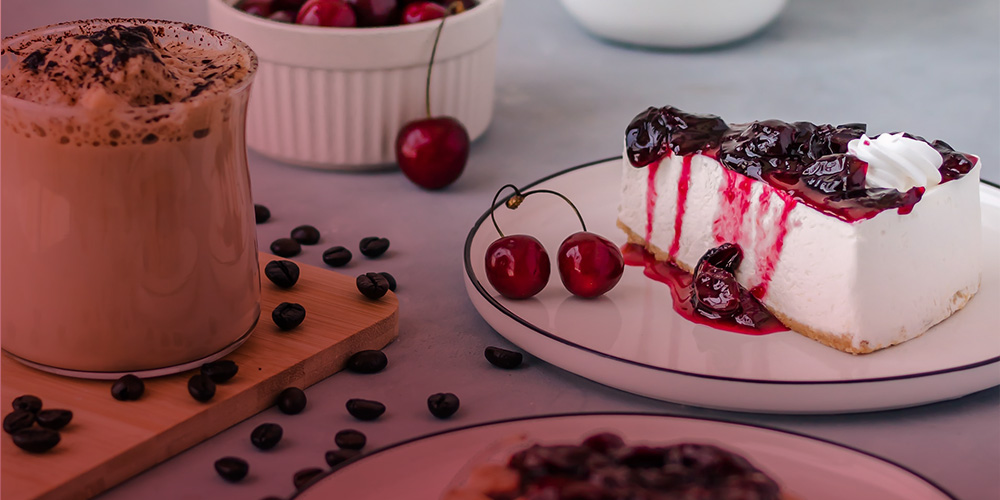
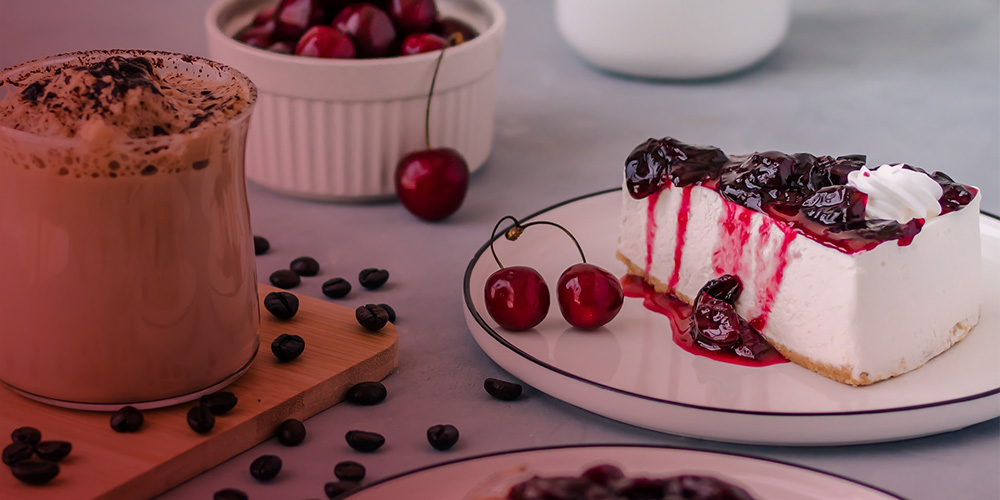
Imagenes arregladas

diff --git a/src/screens/Home/home.jsx b/src/screens/Home/home.jsx
@@ -17,17 +17,31 @@ import salado from "../../../assets/img/Categories/salado.jpg"
 import agridulce from "../../../assets/img/Categories/agridulce.jpg"
 
 // Data
-import CATEGORIES from "../../components/data/categories.json"
+import CATEGORIES from "../../components/data/categories"
 
 export default  Home = ({
-    onPress
-
+    onPress,
 }) => {
 
     const [search, setSearch] = useState("")
     const [borderBottomColor, setBorderBottomColor] = useState(color.darkGrey);
 
     // Funciones para manejar el input
+    const onHandleSearch = () => {
+      console.warn("Buscando");
+      let text = search
+      setSearch("")
+    }
+
+    const onHandleSearchDisable = () => {
+      console.warn("No ingresaste nada");
+    }
+
+
+    const onHandleClose = () => {
+      setSearch("")
+    }
+
 
     // Manage text in the input
     const onHandlerChangeText = (text) => {setSearch(text);};
@@ -56,6 +70,9 @@ export default  Home = ({
             placeholderTextColor= {color.darkGrey}
             onHandleBlur={onHandlerBlur}
             onHandleFocus={onHandleFocus}
+            onSearch={onHandleSearch}
+            onSearchDisable={onHandleSearchDisable}
+            onClose={onHandleClose}
         />
 
         <Text style={styles.title}>Categorías</Text>
@@ -68,10 +85,9 @@ export default  Home = ({
           showsVerticalScrollIndicator={false}
           contentContainerStyle={styles.category}
           renderItem={({ item }) =>  {
-            return <Categories title={item.name} imagen={destacada}/>
+            return <Categories title={item.name} imagen={item.source} onPress={onPress} />
         }}
         />
-
     </View>
   )
 }

diff --git a/src/components/data/categories.js b/src/components/data/categories.js
@@ -1,0 +1,27 @@
+export default CATEGORIES = [
+    {
+        "id": 1,
+        "name": "Destacadas",
+        "source": require("../../../assets/img/Categories/destacado.jpg")
+    },
+    {
+        "id": 2,
+        "name": "Dulce",
+        "source": require("../../../assets/img/Categories/dulce.jpg")
+    },
+    {
+        "id": 3,
+        "name": "Salado",
+        "source": require("../../../assets/img/Categories/salado.jpg")
+    },
+    {
+        "id": 4,
+        "name": "Agridulce",
+        "source": require("../../../assets/img/Categories/agridulce.jpg")
+    },
+    {
+        "id": 5,
+        "name": "Todos",
+        "source": require("../../../assets/img/Categories/todo.jpg")
+    }
+]

diff --git a/src/index.js b/src/index.js
@@ -17,7 +17,7 @@ export default function App(){
 
   //
   const onHandleSelectCategory = (categoryId) => {
-    setSelectedCategory(true);
+    setSelectedCategory(categoryId);
     console.warn(selectedCategory);
     setIsCategorySelected(!isCategorySelected);
   };
@@ -32,7 +32,7 @@ return(
     <SafeAreaView style={styles.SafeArea}>
     <Header></Header>
       {isCategorySelected ? (
-            <Recepies onHandleGoBack={onHandleNavigate} />
+            <Recepies onPress={onHandleNavigate} />
           ) : (
             <Home onPress={onHandleSelectCategory} />
           )

diff --git a/src/components/search/search.jsx b/src/components/search/search.jsx
@@ -18,6 +18,7 @@ const search = ({
     onHandleFocus,
 
     onSearch,
+    onSearchDisable,
     onClose,
 }) => {
   return (
@@ -37,7 +38,7 @@ const search = ({
 
         <Pressable
         style={({pressed}) => [styles.btn, pressed && styles.btnPressed]}
-        onPress={onSearch}
+        onPress={value==="" ?onSearchDisable :onSearch}
         >
             <FontAwesome name="search" size={25} color={color.white} />
         </Pressable>

diff --git a/src/screens/Recepies/recepies.jsx b/src/screens/Recepies/recepies.jsx
@@ -1,10 +1,13 @@
-import { View, Text } from 'react-native'
+import { View, Text, Button } from 'react-native'
 import React from 'react'
 
-export default function Recepies() {
+export default function Recepies({
+  onPress
+}) {
   return (
     <View>
       <Text>recepies</Text>
+      <Button title='volver' onPress={onPress}></Button>
     </View>
   )
 }

diff --git a/src/context/categoryContext.jsx b/src/context/categoryContext.jsx
@@ -1,0 +1,10 @@
+import React, {createContext, useState} from "react";
+
+const categoryContext = createContext();
+
+function CategoryContextProvider(props){
+
+    const [category, setCategory] = useState([])
+
+}
+export {categoryContext, CategoryContextProvider}

diff --git a/src/components/categories/categories.jsx b/src/components/categories/categories.jsx
@@ -7,7 +7,7 @@ import { FontAwesome } from '@expo/vector-icons';
 const Categories = ({
     onPress,
     title,
-    imagen
+    imagen,
 }) => {
     const arrow = <FontAwesome name="angle-right" size={35} color={color.white} />
     return(
